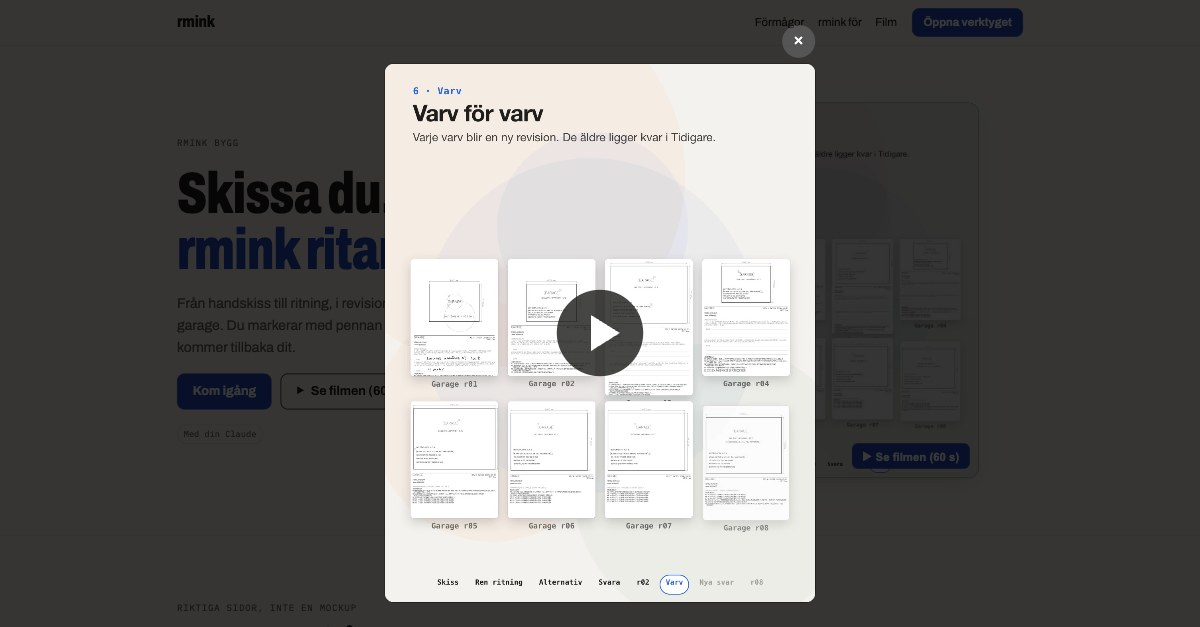
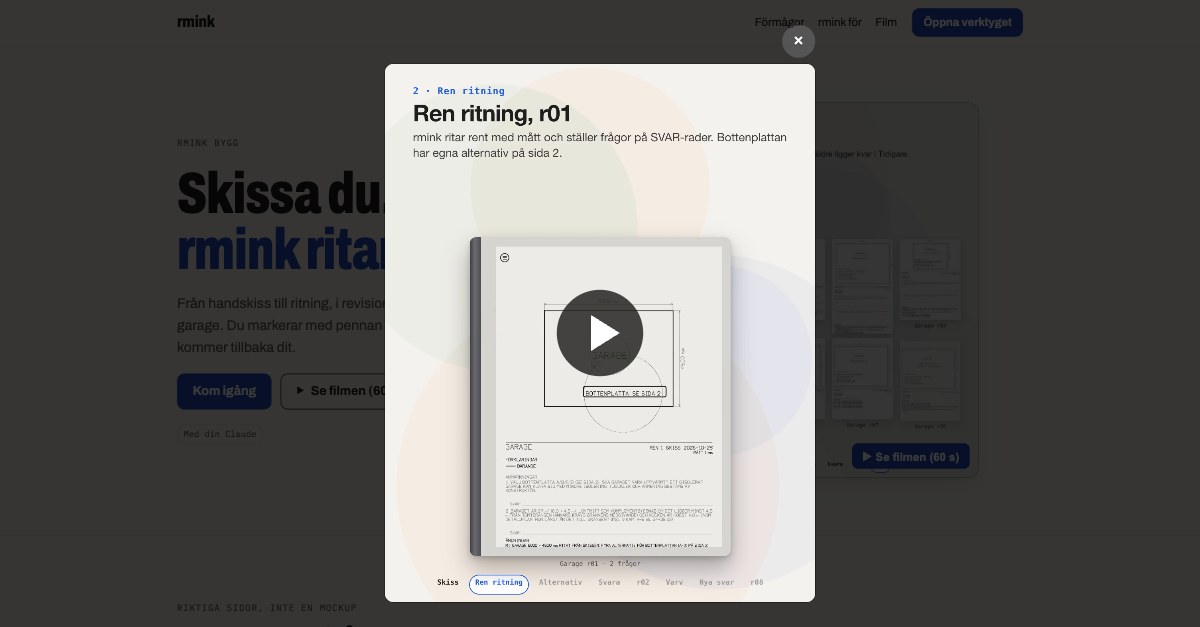
site: bygg poster and share image show the reMarkable 2

Changed region(s): [[0.3392, 0.3636, 0.6783, 0.9697], [0.3392, 0.1212, 0.6475, 0.2727], [0.4933, 0.4242, 0.5242, 0.4545]]

diff --git a/promo/site/og.py b/promo/site/og.py
@@ -21,7 +21,7 @@ PUBLIC = Path(__file__).resolve().parents[2] / "deploy" / "vercel" / "public"
 SHOTS = [
     ("/?demo=en", 62.5, "og.jpg"),
     ("/skola?demo", 20, "promo/skola/og.jpg"),
-    ("/bygg?demo", 40, "promo/bygg/og.jpg"),
+    ("/bygg?demo", 14, "promo/bygg/og.jpg"),
 ]
 SEEK = """async (t) => {
   const v = document.querySelector('#video-dialog video');
